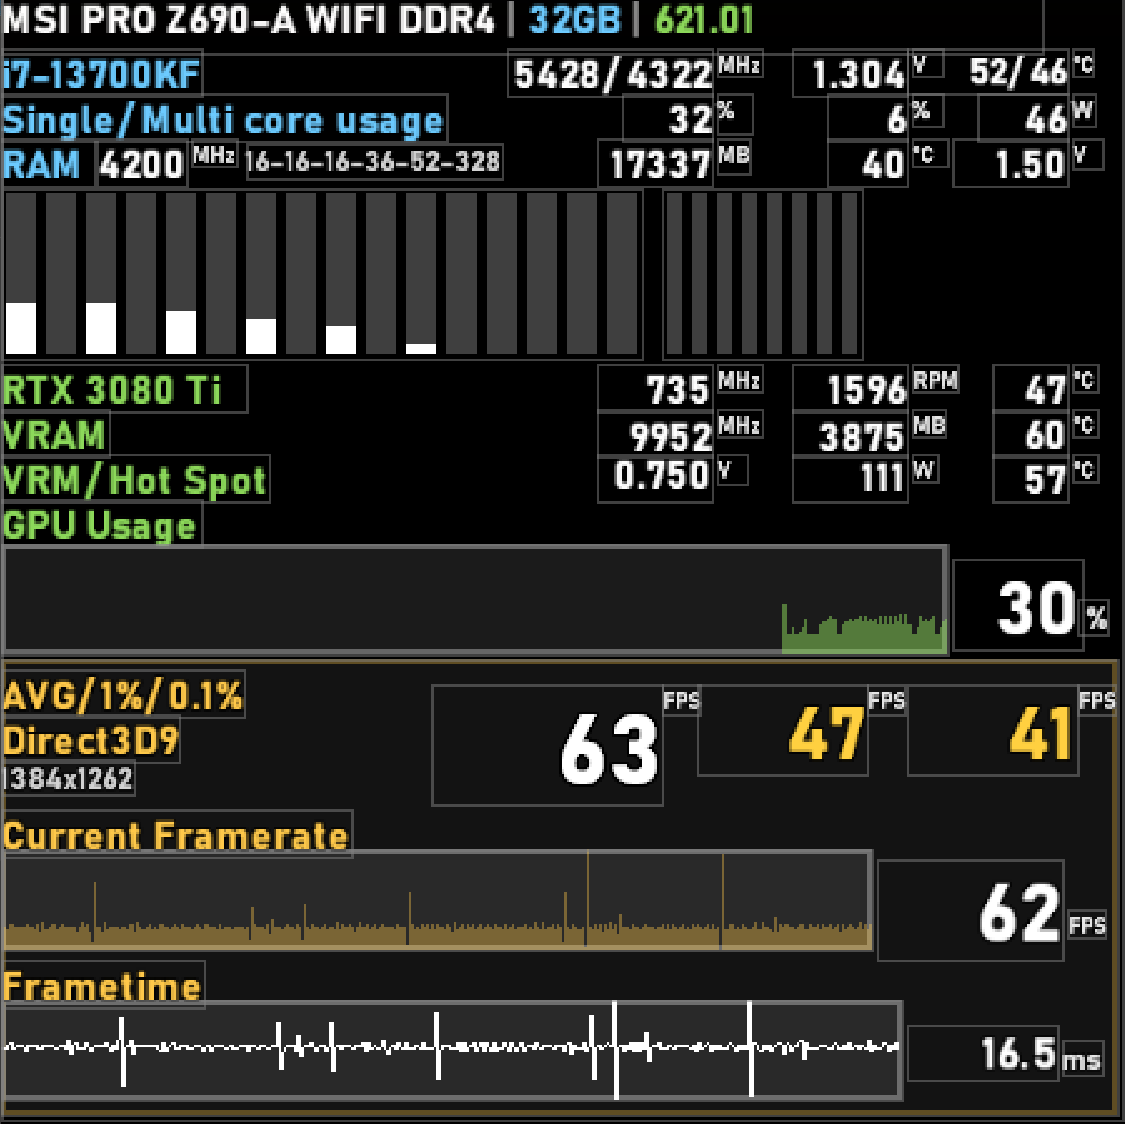
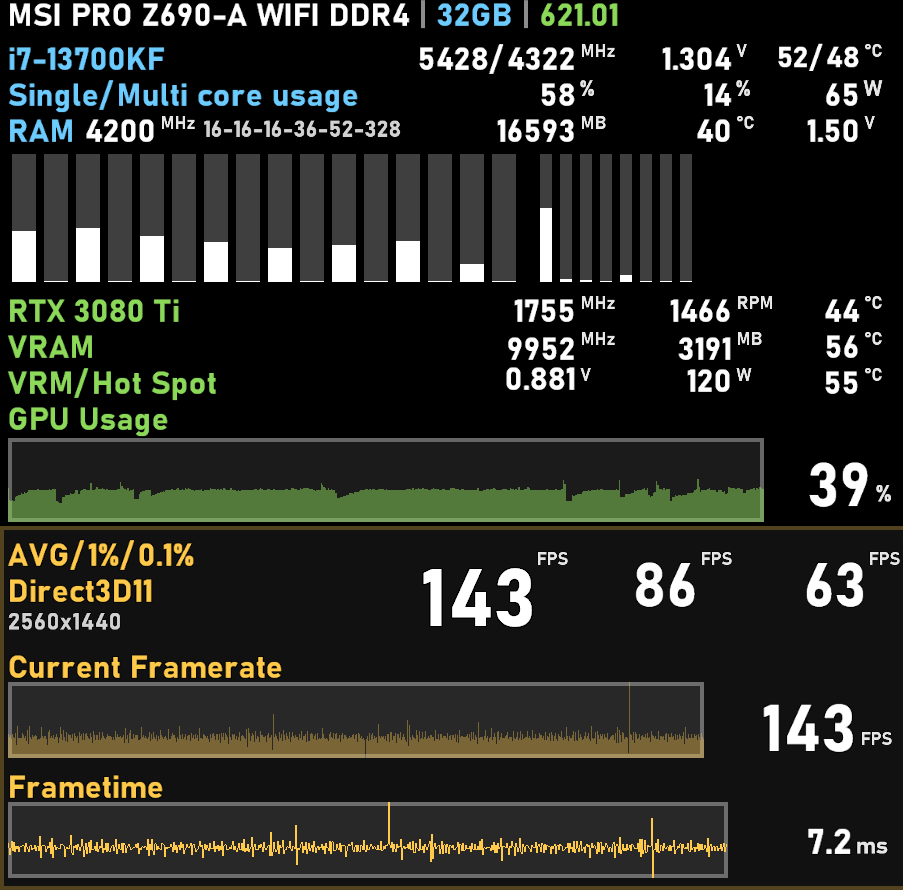
Version 1.0 in the installer; fresh close-up screenshots of both styles

diff --git a/README.md b/README.md
@@ -9,9 +9,9 @@
 > **Вдохновлено [i2HARD](https://www.youtube.com/@i2hard)** — именно так оверлей настраивают в их тестах железа. Это не официальный
 > проект i2HARD, а пресет в их стиле, сделанный с уважением к их работе.
 
-| В игре (Uncharted, Vulkan, 2560×1440, шрифт Bahnschrift) | В редакторе оверлея RTSS |
+| В игре (Uncharted, Vulkan, 2560×1440, шрифт Bahnschrift) | Крупным планом |
 |:---:|:---:|
-| <img src="docs/images/in-game.jpg" width="400" alt="Оверлей в игре"> | <img src="docs/images/overlay.png" width="400" alt="Оверлей в редакторе RTSS"> |
+| <img src="docs/images/in-game.jpg" width="400" alt="Оверлей в игре"> | <img src="docs/images/overlay.png" width="400" alt="Большой вид крупным планом"> |
 
 **Компактная строка** в стиле Steam Performance Monitor:
 

diff --git a/README.en.md b/README.en.md
@@ -9,9 +9,9 @@ Two styles: **full**, i2HARD style, and a **compact single line**, Steam overlay
 > **Inspired by [i2HARD](https://www.youtube.com/@i2hard)** — this is how they set up the overlay in their hardware tests. Not an
 > official i2HARD project, just a preset in their style, made with respect for their work.
 
-| In game (Uncharted, Vulkan, 2560×1440, Bahnschrift font) | In the RTSS overlay editor |
+| In game (Uncharted, Vulkan, 2560×1440, Bahnschrift font) | Close-up |
 |:---:|:---:|
-| <img src="docs/images/in-game.jpg" width="400" alt="Overlay in game"> | <img src="docs/images/overlay.png" width="400" alt="Overlay in the RTSS editor"> |
+| <img src="docs/images/in-game.jpg" width="400" alt="Overlay in game"> | <img src="docs/images/overlay.png" width="400" alt="Full style close-up"> |
 
 **Compact line** in the style of Steam Performance Monitor:
 
